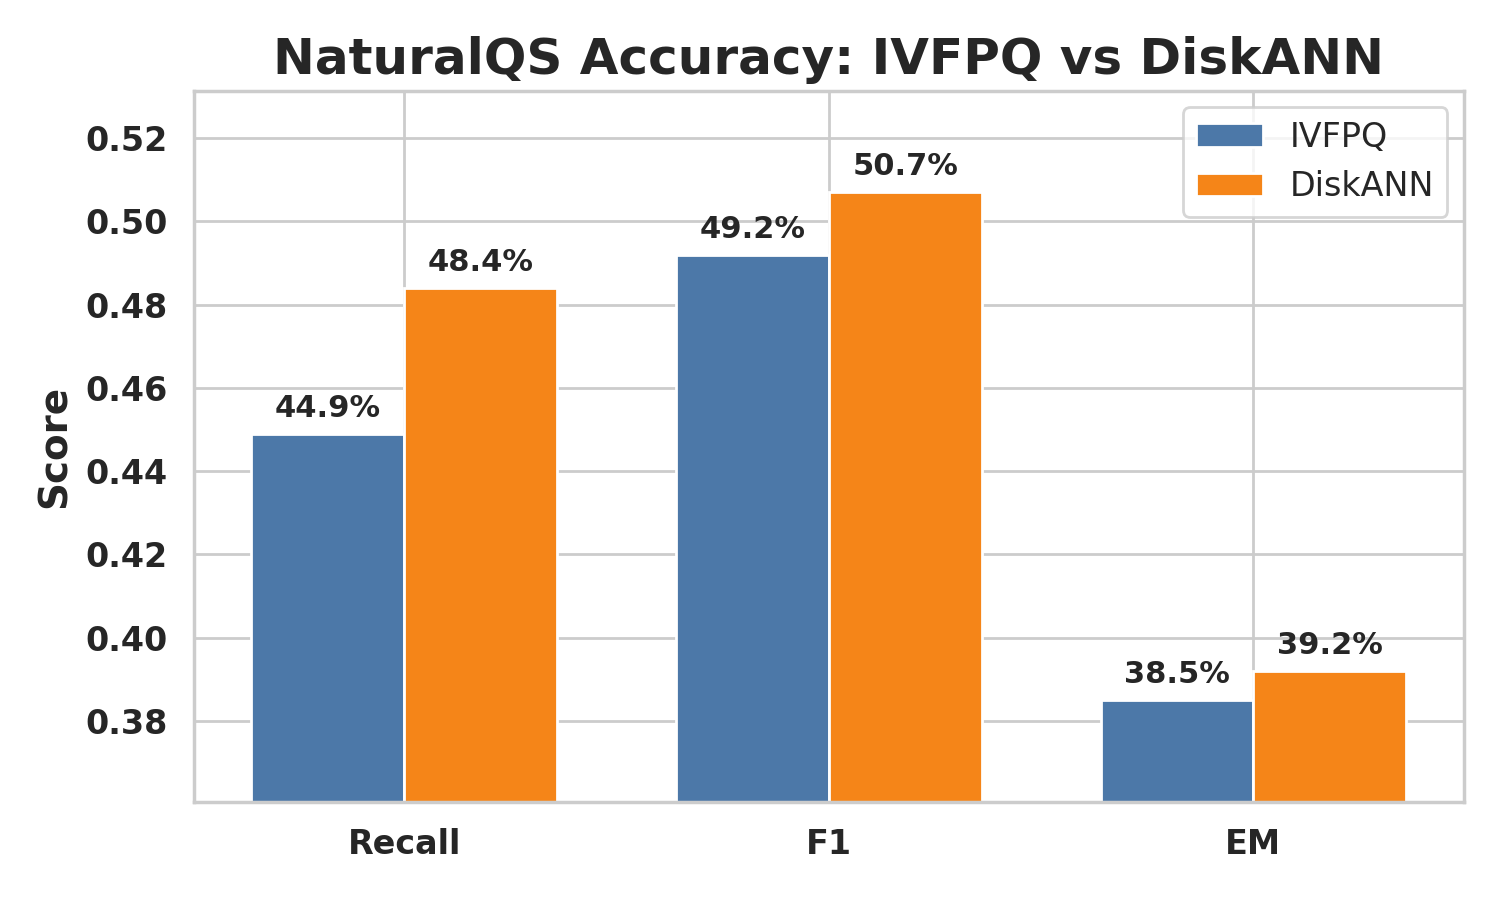
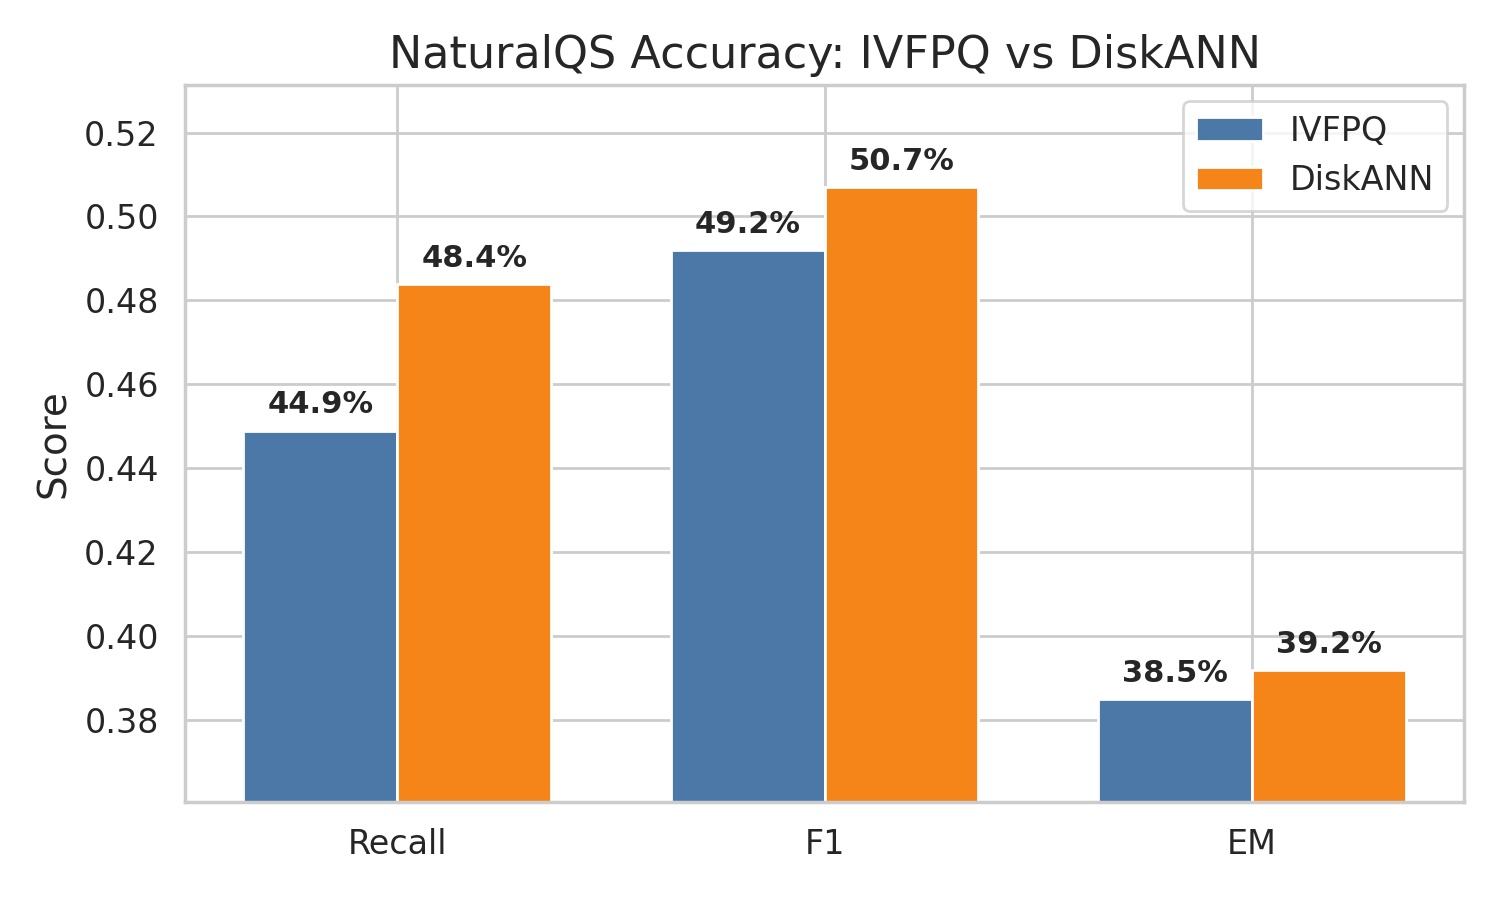
1. Added CSE tpt comp 2. Added gif

diff --git a/scripts/plot_faiss_batch_vs_single.py b/scripts/plot_faiss_batch_vs_single.py
@@ -47,9 +47,9 @@ def _plot_qps(rows: List[Dict[str, float]], mode_label: str, filename: str) -> s
         sns.set_theme(style="whitegrid")
     ax = plt.gca()
     ax.bar(labels, values, color=COLOR_QPS)
-    ax.set_xlabel("nprobe", fontsize=12, fontweight="bold")
-    ax.set_ylabel("QPS", fontsize=12, fontweight="bold")
-    ax.set_title(f"IVFPQ {mode_label} QPS vs nprobe", fontsize=15, fontweight="bold")
+    ax.set_xlabel("nprobe", fontsize=12)
+    ax.set_ylabel("QPS", fontsize=12)
+    ax.set_title(f"IVFPQ {mode_label} QPS vs nprobe", fontsize=14)
 
     for label, val in zip(labels, values):
         ax.annotate(
@@ -65,7 +65,6 @@ def _plot_qps(rows: List[Dict[str, float]], mode_label: str, filename: str) -> s
 
     for tick in list(ax.get_xticklabels()) + list(ax.get_yticklabels()):
         tick.set_fontsize(11)
-        tick.set_fontweight("bold")
 
     plt.tight_layout()
     out_path = os.path.join(PLOT_DIR, filename)
@@ -109,14 +108,13 @@ def _plot_latency(rows: List[Dict[str, float]], mode_label: str, filename: str) 
 
     ax.set_xticks(base_positions)
     ax.set_xticklabels(labels)
-    ax.set_xlabel("nprobe", fontsize=12, fontweight="bold")
-    ax.set_ylabel("Latency per query (ms)", fontsize=12, fontweight="bold")
-    ax.set_title(f"IVFPQ {mode_label} latency breakdown", fontsize=15, fontweight="bold")
+    ax.set_xlabel("nprobe", fontsize=12)
+    ax.set_ylabel("Latency (ms)", fontsize=12)
+    ax.set_title(f"IVFPQ {mode_label} latency breakdown", fontsize=14)
     ax.legend(fontsize=10)
 
     for tick in list(ax.get_xticklabels()) + list(ax.get_yticklabels()):
         tick.set_fontsize(11)
-        tick.set_fontweight("bold")
 
     plt.tight_layout()
     out_path = os.path.join(PLOT_DIR, filename)

diff --git a/scripts/plot_diskann_single_request_latency.py b/scripts/plot_diskann_single_request_latency.py
@@ -54,8 +54,8 @@ def main() -> None:
 
     metrics = [
         ("embed_ms", "Embed"),
-        ("map_ms", "Passage map"),
         ("search_ms", "Index search"),
+        ("map_ms", "Passage map"),
         ("total_ms", "Total"),
     ]
 
@@ -66,8 +66,8 @@ def main() -> None:
 
     plt.figure(figsize=(12, 5))
     ax = plt.gca()
-    # Match batched breakdown colors: Embed (blue), Passage map (green), Index search (orange), Total (red)
-    palette = ["#4C78A8", "#54A24B", "#F58518", "#E45756"]
+    # Match batched breakdown colors/order: Embed (blue), Index search (orange), Passage map (green), Total (red)
+    palette = ["#4C78A8", "#F58518", "#54A24B", "#E45756"]
 
     for idx, (metric_key, display_name) in enumerate(metrics):
         values = [row[metric_key] for row in SINGLE_REQUEST_LATENCY]

diff --git a/scripts/plot_ivfpq_vs_diskann.py b/scripts/plot_ivfpq_vs_diskann.py
@@ -109,13 +109,12 @@ def plot_dataset(dataset: str) -> str:
 
     ax.set_xticks(x_positions)
     ax.set_xticklabels(labels)
-    ax.set_ylabel("Score", fontsize=14, fontweight="bold")
-    ax.set_title(f"{dataset} Accuracy: IVFPQ vs DiskANN", fontsize=18, fontweight="bold")
+    ax.set_ylabel("Score", fontsize=14)
+    ax.set_title(f"{dataset} Accuracy: IVFPQ vs DiskANN", fontsize=16)
     ax.legend(fontsize=12)
 
     for tick in list(ax.get_xticklabels()) + list(ax.get_yticklabels()):
         tick.set_fontsize(12)
-        tick.set_fontweight("bold")
 
     all_vals = ivfpq_vals + diskann_vals
     vmin = min(all_vals)

diff --git a/docs/index.md b/docs/index.md
@@ -98,7 +98,7 @@ details > summary {
 .site-footer { display: none !important; }
 /* Center the top navigation and enlarge links on the homepage */
 .site-header .wrapper { justify-content: center; flex-wrap: wrap; gap: 8px; }
-.site-header .site-title { font-size: 18px !important; font-weight: 600 !important; color: #111827 !important; margin-right: 12px !important; }
+.site-header .site-title { font-size: 20px !important; font-weight: 700 !important; color: #111827 !important; margin-right: 12px !important; text-transform: uppercase; }
 .site-header .site-nav .page-link { display: inline-block; margin: 2px 6px; font-size: 16px; }
 .site-header .site-nav .trigger { justify-content: center; gap: 10px; flex-wrap: wrap; }
 .site-header .site-nav { display: none !important; } /* hide header links; keep title centered */
@@ -155,7 +155,7 @@ details > summary {
 
 
 
-<h2 align="center" style="margin-top: 10px; margin-bottom: 5px;">🚀 <b>DS SERVE: A Framework for Efficient and Scalable Neural Retrieval</b></h2>
+<h2 align="center" style="margin-top: 10px; margin-bottom: 5px; font-size: 28px;">🚀 <b>DS SERVE: A Framework for Efficient and Scalable Neural Retrieval</b></h2>
 
 <p align="center" class="authors" style="margin-bottom: 2px;">
   <a href="https://github.com/berkeleyljj" target="_blank">Jinjian Liu</a><sup>1*</sup>, 
@@ -192,10 +192,10 @@ details > summary {
 </div>
 
 <p align="center">
-  <img src="{{ 'assets/UI.png' | relative_url }}" alt="UI snippet" style="width: 36%; margin: 5px; border-radius: 8px; box-shadow: 0 2px 6px rgba(0,0,0,0.15);" />
+  <img src="{{ 'scripts/DS-Serve UI.gif' | relative_url }}" alt="UI snippet" style="width: 36%; margin: 5px; border-radius: 8px; box-shadow: 0 2px 6px rgba(0,0,0,0.15);" />
   <img src="{{ 'assets/panel.png' | relative_url }}" alt="Parameter panel snippet" style="width: 24%; margin: 5px; border-radius: 8px; box-shadow: 0 2px 6px rgba(0,0,0,0.15);" />
 </p>
-<p align="center" class="small-note"><i>UI and parameter panel snippets</i></p>
+<p align="center" class="small-note"><i>UI (gif) and parameter panel snippets</i></p>
 
 ### Why was it previously challenging?
 
@@ -399,6 +399,14 @@ The approximate nature of the ANN backend inevitably sacrifices accuracy, thus w
   <img src="{{ 'accuracy_ivfpq_vs_diskann_naturalqs.png' | relative_url }}" alt="NaturalQS accuracy DiskANN vs IVFPQ" style="width: 44%; margin: 8px;" />
 </p>
 <p>Single-request search is used mainly for the interactive UI; batched search is recommended for higher-throughput API workloads.</p>
+<hr />
+
+<h3 align="center">Throughput comparison vs Google API</h3>
+<p>Measured average QPS for single-request and batched modes.</p>
+<p align="center">
+  <img src="{{ 'plots/search_engine_qps_single.png' | relative_url }}" alt="Single-request QPS: Google API vs DS Serve" style="width: 44%; margin: 8px;" />
+  <img src="{{ 'plots/search_engine_qps_batched.png' | relative_url }}" alt="Batched QPS: Google API vs DS Serve" style="width: 44%; margin: 8px;" />
+</p>
 <p class="small-note"><b>Note:</b> The latency number shown on the UI measures end-to-end wall-clock time (request setup, network travel, JSON encode/decode, rendering). QPS and latency can have small fluctuations depending on network speed.</p>
 
 ---
